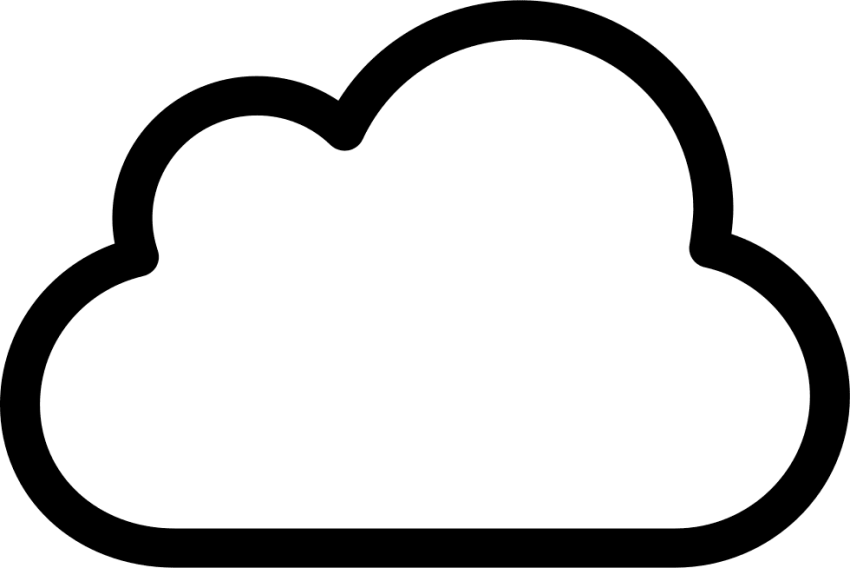
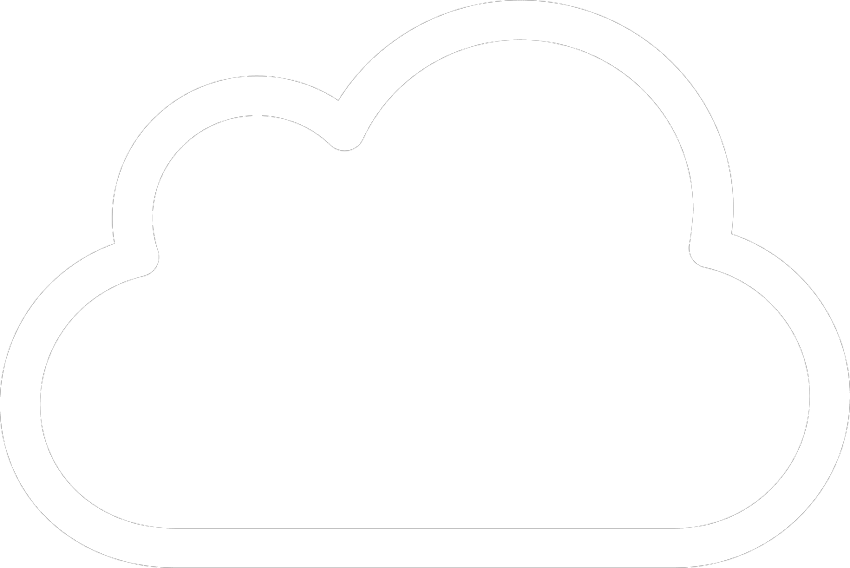
Background-image

Changed region(s): [[0.0, 0.0, 1.0, 1.0]]

diff --git a/style/style.css b/style/style.css
@@ -11,9 +11,22 @@
 
 
 body {
-    background-color: #EADFB4;
+    /* background-color: #EADFB4; */
     font-family: "Noto Sans KR", sans-serif;
     font-weight: normal;
+    color:white;
+    margin: 0;
+    padding: 0;
+    overflow: hidden;
+}
+
+#container {
+    position: absolute;
+    top: 0;
+    width: 100%;
+    height: 100%;
+    background-size: cover;
+    background-position: center top;
 }
 
 #tempinfo {
@@ -73,6 +86,7 @@ body {
     outline: none;
     width: 450px;
     font-size: 30px;
+    color:white;
 }
 
 #mainGoal {
@@ -81,17 +95,20 @@ body {
     width:100%;
     text-align: center;
     font-size:30px;
+    text-shadow: 0 0 15px black;
 }
 
 #Goal {
     border-top: none;
     border-left: none;
     border-right: none;
+    border-bottom: 1px solid white;
     background-color: transparent;
     width: 450px;
     outline:none;
     text-align: center;
     font-size: 30px;
+    color: white;
 }
 
 #TodoArea {
@@ -123,6 +140,7 @@ body {
 #TodoCategory {
     position: absolute;
     left: 20px;
+    color: black;
 }
 
 #arrow-down {
@@ -212,11 +230,14 @@ body {
     background: transparent;
     font-size: 17px;
     float: right;
+    color: white;
+    text-shadow: 0 0 15px black;
+    opacity: 0.5;
     
 }
 
 #TodoBtn:hover {
-    color: grey;
+    opacity: 1;
     cursor: pointer;
 }
 
@@ -308,13 +329,14 @@ body {
 
 #optionBtn >img:hover {
     border-radius: 100%;
-    background-color: #c0b792;
+    opacity: 1;
     cursor: pointer;
 }
 
 #optionBtn > img{
     width: 20px;
     padding: 5px;
+    opacity: 0.5;
 }
 
 #optionBoxLast {
@@ -343,10 +365,12 @@ body {
 
 #text {
     font-size: 20px;
+    text-shadow: 0 0 15px black;
 }
 
 #author {
     /* 폰트 */
     font-size: 15px;
-    color: grey;
+    color: rgba(255, 255, 255, 0.8);
+    text-shadow: 0 0 15px black;
 }

diff --git a/js/quotes.js b/js/quotes.js
@@ -1,3 +1,5 @@
+import {rand} from './utils.js';
+
 const quotes = [
     {text : '마음만을 가지고 있어서는 안된다. 반드시 실천하여야 한다.',
     author : '이소룡'},
@@ -22,8 +24,10 @@ const quotes = [
 const QT = document.getElementById('text');
 const QA = document.getElementById('author');
 
+
+
 function setQuotes() {
-    const indexNum = parseInt((Math.random()*10) % (quotes.length - 1));
+    const indexNum = rand(0, (quotes.length -1));
     if(quotes[indexNum] != undefined) {
         QT.textContent = quotes[indexNum].text;
         QA.textContent = quotes[indexNum].author;

diff --git a/index.html b/index.html
@@ -90,9 +90,11 @@
             
         </div>
     </div>
-    <script src="js/quotes.js"></script>
+    <script src="js/quotes.js" type="module"></script>
     <script src="js/Button.js"></script>
     <script src="js/watch.js"></script>
     <script src="js/hello.js"></script>
+    <script src="js/wallpaper.js" type="module"></script>
+    <script src="js/utils.js" type="module"></script>
 </body>
 </html>

diff --git a/js/wallpaper.js b/js/wallpaper.js
@@ -1,0 +1,7 @@
+import {rand} from './utils.js';
+
+const cont = document.getElementById("container");
+const wplim = 5;
+const randn = rand(1,wplim);
+
+cont.setAttribute('style', `background-image : url('../wallpaper/${randn}.jpg')`);

diff --git a/js/utils.js b/js/utils.js
@@ -1,0 +1,1 @@
+export const rand = (min, max) => Math.floor(Math.random() * (max - min + 1)) + min;

diff --git a/readme.md b/readme.md
@@ -12,10 +12,9 @@
 - 5.3 ~ : JavaScript 시작
     - 5.3 : Todo 버튼 상호작용, 명언 랜덤, 시계 활성화, 로그인 추가, 옵션 버튼, 옵션 버튼 상호작용
     - 5.5 : 옵션 내 로그아웃 기능 추가
+    - 5.6 : 배경이미지 추가, 배경이미지 랜덤 기능 추가, 텍스트 및 아이콘을 화이트로 수정, 옵션 버튼과 Todo 버튼 hover 상태에서 변화 수정, 얇은 텍스트에 그림자 추가(가독성)
 
 ## 🤢 Todo List
-- 배경을 이미지로
-    - 브라우저 크기 변화에 따라 공백이 안생기게 해야 함
 - 온도 표시
     - 크롤링 구현 -> 실제 온도가 나오도록
     - 지역 설정 구현 ( 좀 먼 이야기 ... )
